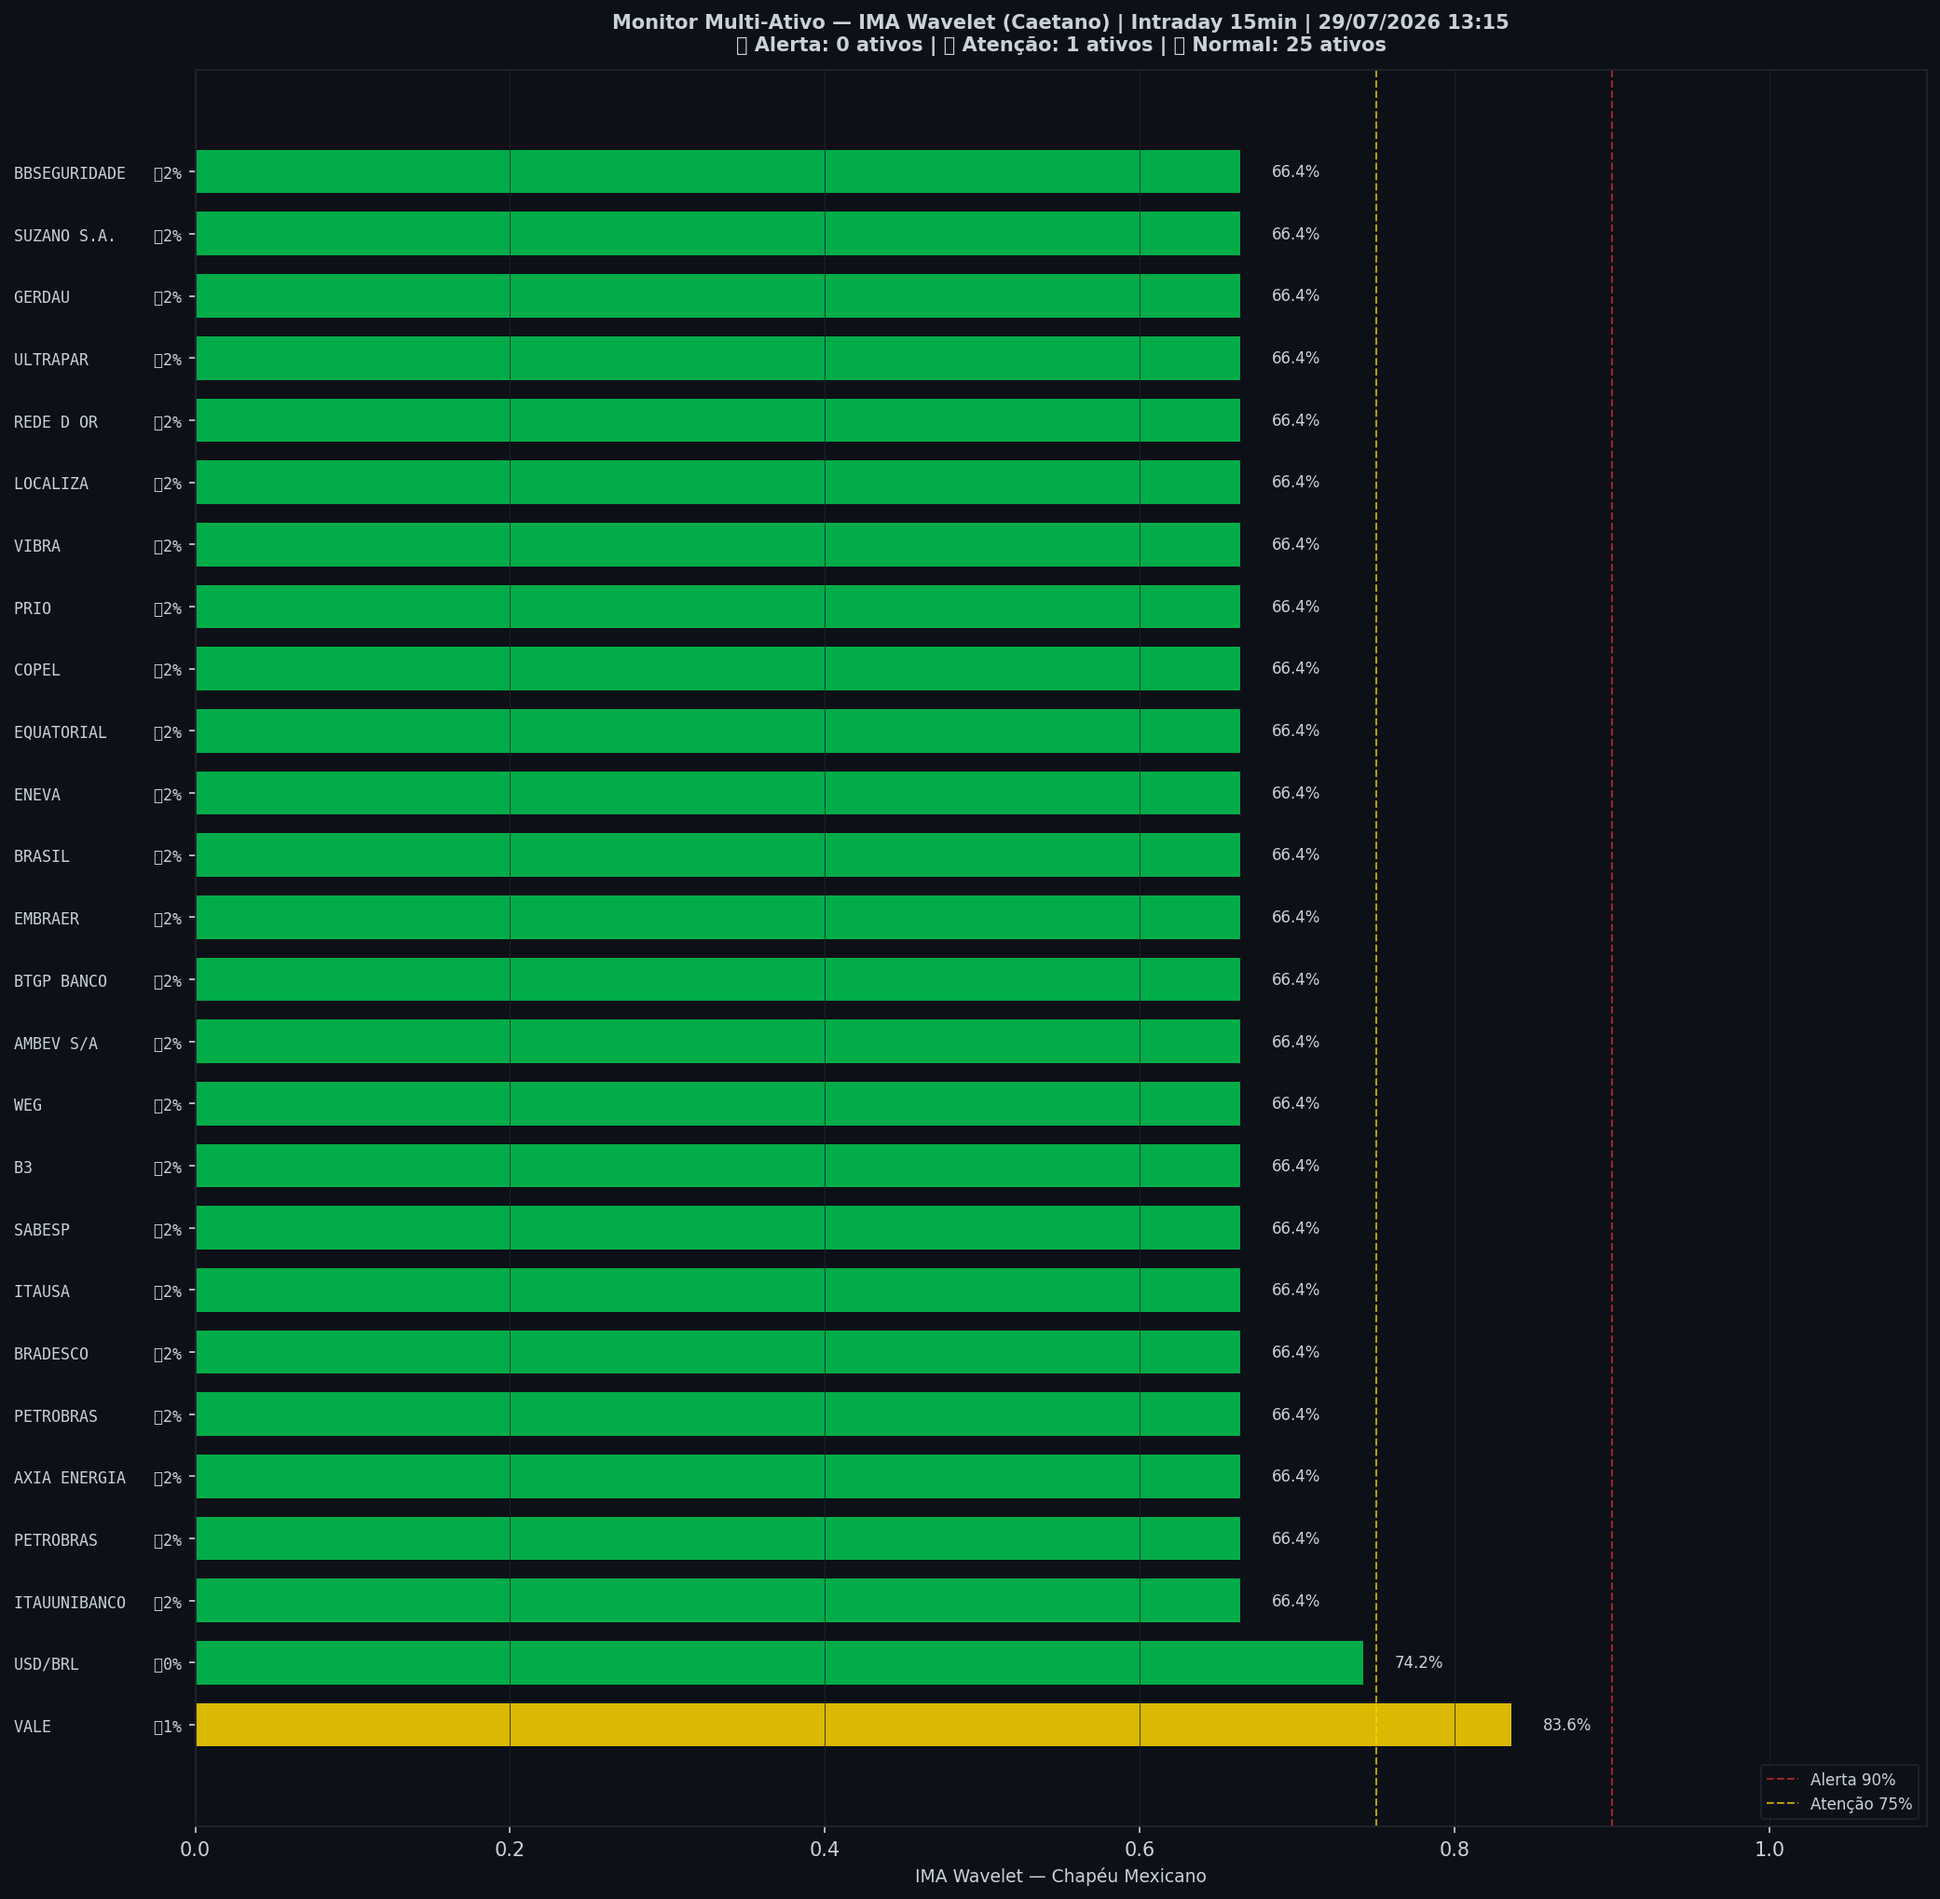
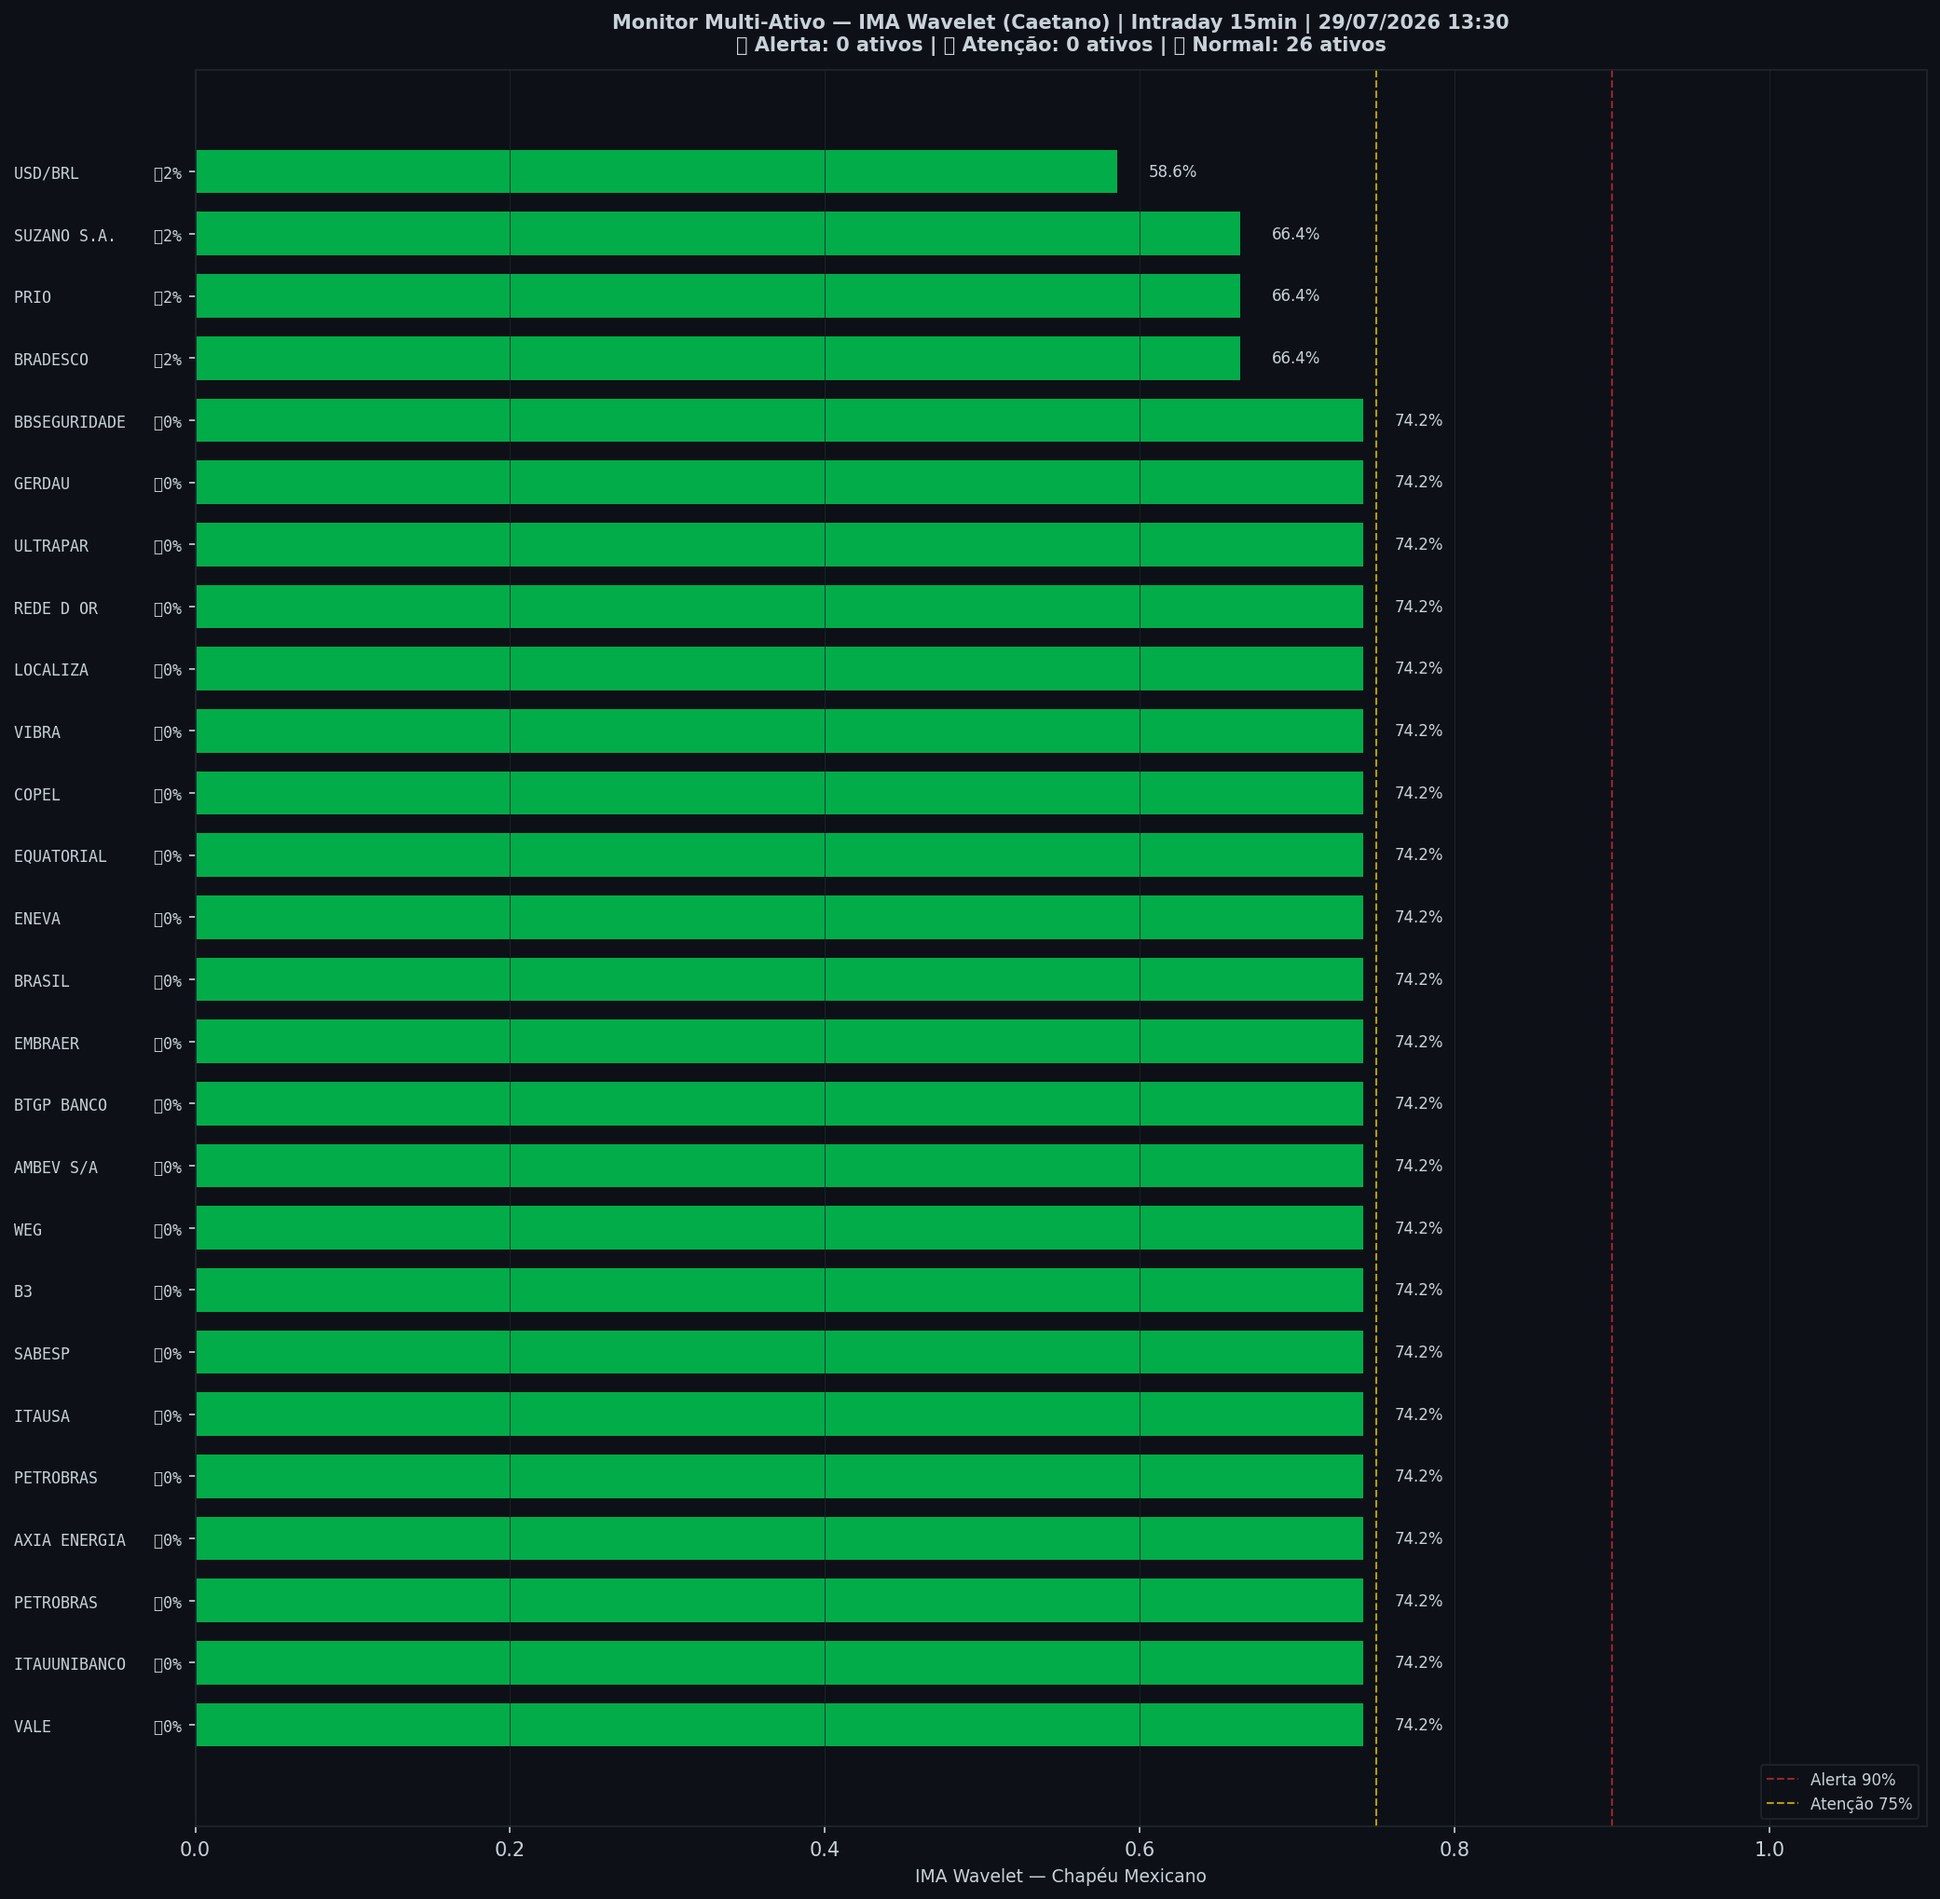
🤖 Auto: Sinal 29/07/2026 13:30

diff --git a/content/intraday/2026-07-29.md b/content/intraday/2026-07-29.md
@@ -1,5 +1,5 @@
 ---
-title: "🟢 Intraday 29/07/2026 12:30 BRT — VERDE"
+title: "🟢 Intraday 29/07/2026 12:45 BRT — VERDE"
 date: 2026-07-29
 tags: [intraday]
 ---
@@ -12,9 +12,9 @@ tags: [intraday]
 | Indicador | Valor |
 |---|---|
 | 🔴 ζ Crash — severidade da queda em curso | **0%** |
-| 🔵 ζ Entrada — estrutura de fundo | 99% |
+| 🔵 ζ Entrada — estrutura de fundo | 98% |
 | 🫧 LPPL DS-Confidence | 0% |
-| 📊 Ibovespa | 174.975 pts |
+| 📊 Ibovespa | 174.997 pts |
 
 ![Gráfico do sinal](../graficos/sinal_intraday.png)
 
@@ -22,6 +22,7 @@ tags: [intraday]
 
 | Data | Zona | Risco | IMA Crash | Entrada | LPPL |
 |---|---|---|---|---|---|
+| 2026-07-29 12:45 | 🟢 VERDE | **0%** | 0% | 98% | 0% |
 | 2026-07-29 12:30 | 🟢 VERDE | **0%** | 0% | 99% | 0% |
 | 2026-07-29 12:15 | 🟢 VERDE | **0%** | 0% | 99% | 0% |
 | 2026-07-29 12:00 | 🟢 VERDE | **1%** | 1% | 99% | 0% |
@@ -51,44 +52,43 @@ tags: [intraday]
 | 2026-07-28 13:00 | 🟢 VERDE | **43%** | 43% | 2% | 0% |
 | 2026-07-28 12:45 | 🟡 AMARELO | **55%** | 55% | 1% | 0% |
 | 2026-07-28 12:30 | 🟡 AMARELO | **63%** | 63% | 0% | 0% |
-| 2026-07-28 12:15 | 🟡 AMARELO | **71%** | 71% | 0% | 0% |
 
 ## Monitor Multi-Ativo
 
-**4% dos ativos em tensão** (0🔴 1🟡) — quanto mais ativos disparam juntos, mais confiável o sinal.
+**0% dos ativos em tensão** (0🔴 1🟡) — quanto mais ativos disparam juntos, mais confiável o sinal.
 
 | Zona | Ativo | Setor | IMA Crash | IMA Entrada |
 |---|---|---|---|---|
-| 🟡 | **VALE** | Mineração | 83.6% | 0.8% |
-| 🟢 | **USD/BRL** | Câmbio | 74.2% | 0.0% |
-| 🟢 | **ITAUUNIBANCO** | Financeiro | 66.4% | 2.3% |
-| 🟢 | **PETROBRAS** | Petróleo | 66.4% | 2.3% |
-| 🟢 | **AXIA ENERGIA** | Energia | 66.4% | 2.3% |
-| 🟢 | **PETROBRAS** | Petróleo | 66.4% | 2.3% |
+| 🟡 | **VALE** | Mineração | 74.2% | 0.0% |
+| 🟢 | **ITAUUNIBANCO** | Financeiro | 74.2% | 0.0% |
+| 🟢 | **PETROBRAS** | Petróleo | 74.2% | 0.0% |
+| 🟢 | **AXIA ENERGIA** | Energia | 74.2% | 0.0% |
+| 🟢 | **PETROBRAS** | Petróleo | 74.2% | 0.0% |
+| 🟢 | **ITAUSA** | Financeiro | 74.2% | 0.0% |
+| 🟢 | **SABESP** | Saneamento | 74.2% | 0.0% |
+| 🟢 | **B3** | Financeiro | 74.2% | 0.0% |
+| 🟢 | **WEG** | Industrial | 74.2% | 0.0% |
+| 🟢 | **AMBEV S/A** | Consumo | 74.2% | 0.0% |
+| 🟢 | **BTGP BANCO** | Financeiro | 74.2% | 0.0% |
+| 🟢 | **EMBRAER** | Outros | 74.2% | 0.0% |
+| 🟢 | **BRASIL** | Financeiro | 74.2% | 0.0% |
+| 🟢 | **ENEVA** | Energia | 74.2% | 0.0% |
+| 🟢 | **EQUATORIAL** | Energia | 74.2% | 0.0% |
+| 🟢 | **COPEL** | Energia | 74.2% | 0.0% |
+| 🟢 | **VIBRA** | Energia | 74.2% | 0.0% |
+| 🟢 | **LOCALIZA** | Aluguel | 74.2% | 0.0% |
+| 🟢 | **REDE D OR** | Saúde | 74.2% | 0.0% |
+| 🟢 | **ULTRAPAR** | Outros | 74.2% | 0.0% |
+| 🟢 | **GERDAU** | Siderurgia | 74.2% | 0.0% |
+| 🟢 | **BBSEGURIDADE** | Financeiro | 74.2% | 0.0% |
 | 🟢 | **BRADESCO** | Financeiro | 66.4% | 2.3% |
-| 🟢 | **ITAUSA** | Financeiro | 66.4% | 2.3% |
-| 🟢 | **SABESP** | Saneamento | 66.4% | 2.3% |
-| 🟢 | **B3** | Financeiro | 66.4% | 2.3% |
-| 🟢 | **WEG** | Industrial | 66.4% | 2.3% |
-| 🟢 | **AMBEV S/A** | Consumo | 66.4% | 2.3% |
-| 🟢 | **BTGP BANCO** | Financeiro | 66.4% | 2.3% |
-| 🟢 | **EMBRAER** | Outros | 66.4% | 2.3% |
-| 🟢 | **BRASIL** | Financeiro | 66.4% | 2.3% |
-| 🟢 | **ENEVA** | Energia | 66.4% | 2.3% |
-| 🟢 | **EQUATORIAL** | Energia | 66.4% | 2.3% |
-| 🟢 | **COPEL** | Energia | 66.4% | 2.3% |
 | 🟢 | **PRIO** | Petróleo | 66.4% | 2.3% |
-| 🟢 | **VIBRA** | Energia | 66.4% | 2.3% |
-| 🟢 | **LOCALIZA** | Aluguel | 66.4% | 2.3% |
-| 🟢 | **REDE D OR** | Saúde | 66.4% | 2.3% |
-| 🟢 | **ULTRAPAR** | Outros | 66.4% | 2.3% |
-| 🟢 | **GERDAU** | Siderurgia | 66.4% | 2.3% |
 | 🟢 | **SUZANO S.A.** | Papel/Celulose | 66.4% | 2.3% |
-| 🟢 | **BBSEGURIDADE** | Financeiro | 66.4% | 2.3% |
+| 🟢 | **USD/BRL** | Câmbio | 58.6% | 1.6% |
 
 ![Monitor multi-ativo](../graficos/multi_intraday.png)
 
-*Página atualizada em 29/07/2026 13:15 BRT (leitura da barra de 2026-07-29 12:30 BRT).*
+*Página atualizada em 29/07/2026 13:30 BRT (leitura da barra de 2026-07-29 12:45 BRT).*
 
 > [!info]- Como interpretar (clique para expandir)
 > - **ζ Crash**: fração dos coeficientes wavelet acima do corte (Caetano & Yoneyama 2009). Escala absoluta: ζ=0,90 = 90% dos coeficientes anômalos — historicamente, quedas com ζ≥0,90 foram mais fundas e mais longas. **Mede a severidade do movimento em curso, não prevê o início da queda.**

diff --git a/content/index.md b/content/index.md
@@ -8,7 +8,7 @@ tags: [home]
 
 Monitoramento diário e intraday do Ibovespa — **IMA Wavelet** (Prof. Marco Antonio Leonel Caetano, ITA/INSPER) + **LPPL DS-Confidence** (Prof. Didier Sornette, ETH-Zurich).
 
-*Última atualização: 29/07/2026 13:15 BRT · ^BVSP · Intraday 15min · v4*
+*Última atualização: 29/07/2026 13:30 BRT · ^BVSP · Intraday 15min · v4*
 
 > [!success] 🟢 **VERDE** — Risco 0% · ＝ +0 p.p. vs leitura anterior
 > `░░░░░░░░░░░░░░░░░░░░`
@@ -18,11 +18,11 @@ Monitoramento diário e intraday do Ibovespa — **IMA Wavelet** (Prof. Marco An
 | Indicador | Valor |
 |---|---|
 | 🔴 ζ Crash — severidade da queda em curso | **0%** |
-| 🔵 ζ Entrada — estrutura de fundo | 99% |
+| 🔵 ζ Entrada — estrutura de fundo | 98% |
 | 🫧 LPPL DS-Confidence | 0% |
-| 📊 Ibovespa | 174.975 pts |
+| 📊 Ibovespa | 174.997 pts |
 
-**Multi-ativo:** 4% em tensão (0🔴 1🟡 de 26 ativos)
+**Multi-ativo:** 0% em tensão (0🔴 1🟡 de 26 ativos)
 
 
 > [!tip]- Calibração v4 (backtest 15y)

diff --git a/content/historico.md b/content/historico.md
@@ -7,6 +7,7 @@ tags: [historico]
 
 | Data | Modo | Zona | Risco | IMA | LPPL |
 |---|---|---|---|---|---|
+| 2026-07-29 12:45 | intraday | 🟢 VERDE | 0% | 0% | 0% |
 | 2026-07-29 12:30 | intraday | 🟢 VERDE | 0% | 0% | 0% |
 | 2026-07-29 12:15 | intraday | 🟢 VERDE | 0% | 0% | 0% |
 | 2026-07-29 12:00 | intraday | 🟢 VERDE | 1% | 1% | 0% |
